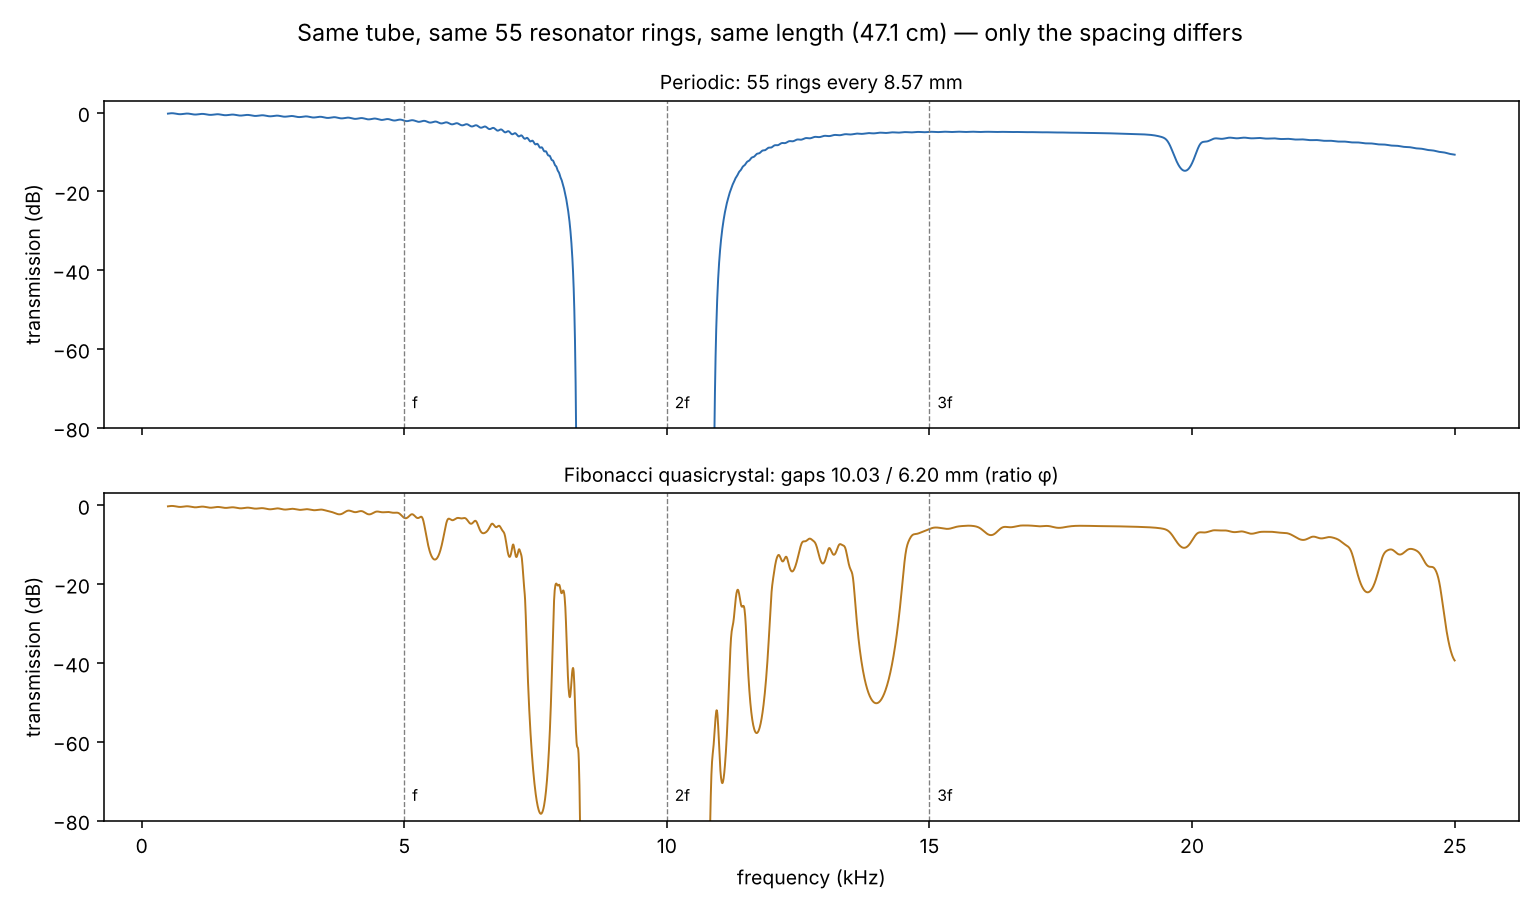
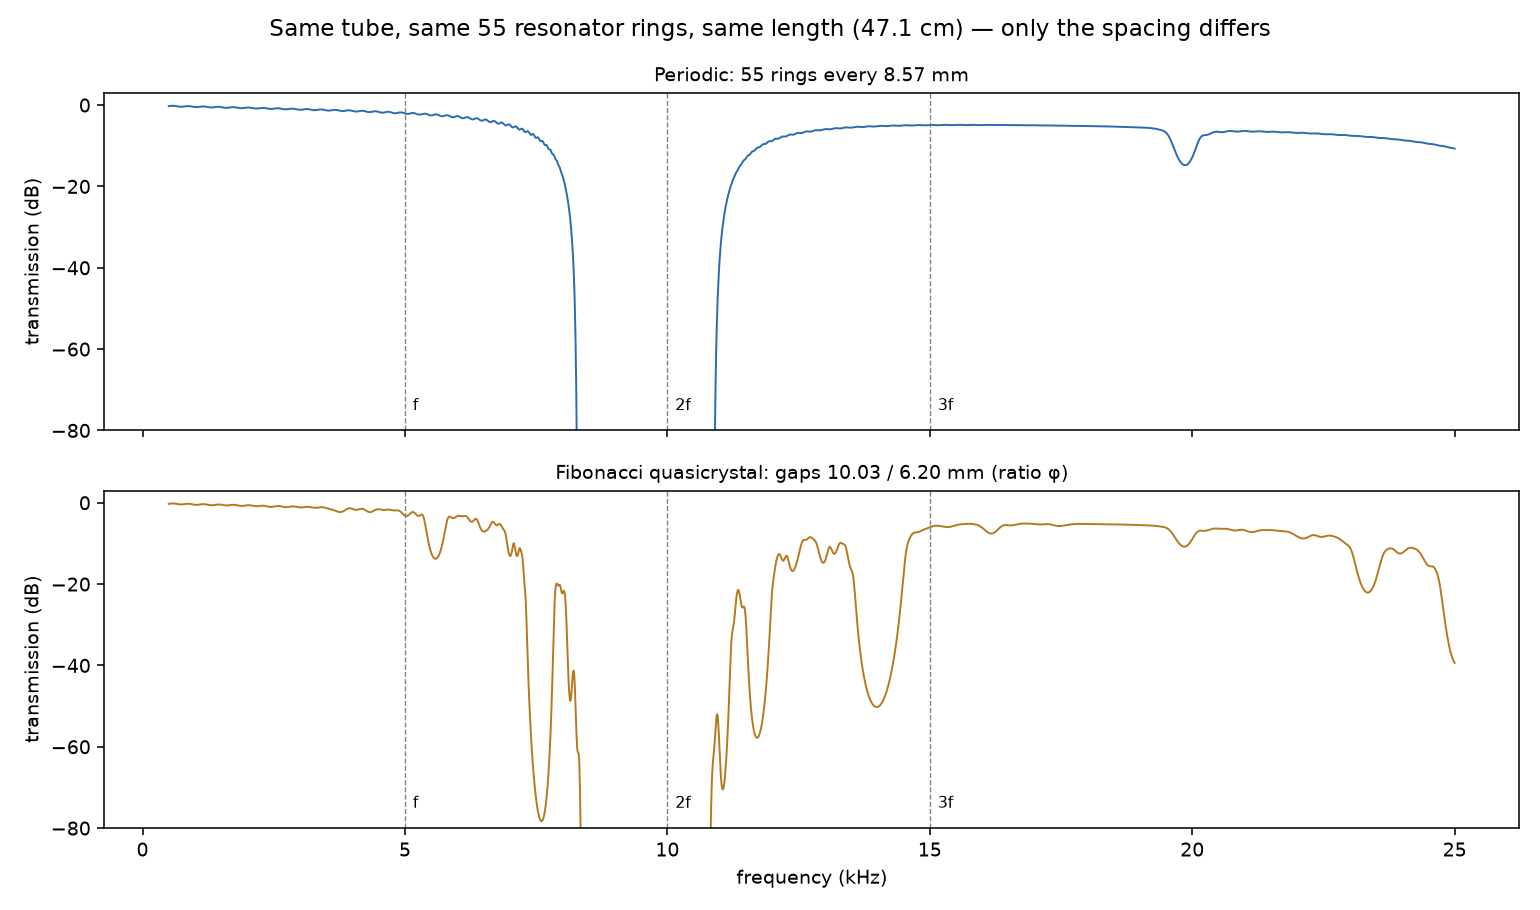
analog-gravity: honest gap counting, robust pulse counter, GPU sync cleanup
- fibonacci_tube.py: merge narrow splits, exclude sweep-edge bands, clip <-100 dB,
  threshold table; README drops unsupported 'five gaps / Cantor-like' claim
- kdv_test.py: prominence-based pulse count (was counting grid wiggles)
- remove per-step GPU->CPU syncs (no speedup: FP64-bound small FFTs; documented)
- regenerate results/ plots

diff --git a/analog-gravity/fibonacci_tube.py b/analog-gravity/fibonacci_tube.py
@@ -69,22 +69,46 @@ fig.tight_layout()
 fig.savefig("fibonacci_tube.png", dpi=140)
 
 
-def gaps_list(T, thr=-20):
+MERGE_KHZ = 0.2   # pass-peaks narrower than this don't split a gap
+THRESHOLDS = (-10, -20, -30)
+
+
+def gaps_list(T, thr=-20, merge_khz=MERGE_KHZ):
+    """Blocked bands (T < thr) in kHz, as (lo, hi, touches_sweep_edge).
+    Bands separated by a pass-peak narrower than merge_khz are merged."""
     blocked = T < thr; bands = []; i = 0
     while i < len(T):
         if blocked[i]:
             j = i
             while j < len(T) and blocked[j]:
                 j += 1
-            bands.append((freqs[i] / 1e3, freqs[j - 1] / 1e3)); i = j
+            lo, hi = freqs[i] / 1e3, freqs[j - 1] / 1e3
+            edge = i == 0 or j == len(T)
+            if bands and lo - bands[-1][1] < merge_khz:
+                plo, _, pedge = bands.pop()
+                lo, edge = plo, edge or pedge
+            bands.append((lo, hi, edge)); i = j
         else:
             i += 1
     return bands
 
+
+def fmt_dB(x):
+    return "< -100 dB" if x < -100 else f"{x:6.1f} dB"
+
+
+print(f"blocked = transmission below threshold; gaps split by pass-peaks < {MERGE_KHZ} kHz wide are merged;\n"
+      f"bands touching the {freqs[0]/1e3:g}-{freqs[-1]/1e3:g} kHz sweep edge are listed but not counted")
 for name, T in (("periodic", Tp), ("fibonacci", Tf)):
     b = gaps_list(T)
-    print(f"{name:9s}: {len(b)} blocked bands (< -20 dB): " +
-          ", ".join(f"{x:.1f}-{y:.1f}" for x, y in b) + " kHz")
+    inner = [(x, y) for x, y, e in b if not e]
+    edge = [(x, y) for x, y, e in b if e]
+    print(f"{name:9s}: {len(inner)} gaps (< -20 dB): " +
+          (", ".join(f"{x:.1f}-{y:.1f}" for x, y in inner) or "none") + " kHz" +
+          ("   [edge, not counted: " + ", ".join(f"{x:.1f}-{y:.1f}" for x, y in edge) + " kHz]" if edge else ""))
     for h in (5, 10, 15):
-        print(f"           at {h} kHz: {np.interp(h*1e3, freqs, T):6.1f} dB")
+        print(f"           at {h} kHz: {fmt_dB(np.interp(h*1e3, freqs, T))}")
+print("gap count vs threshold: " + "".join(f"{t:>8d} dB" for t in THRESHOLDS))
+for name, T in (("periodic", Tp), ("fibonacci", Tf)):
+    print(f"  {name:21s}" + "".join(f"{sum(not e for *_, e in gaps_list(T, t)):11d}" for t in THRESHOLDS))
 print("saved fibonacci_tube.png")

diff --git a/analog-gravity/kdv_test.py b/analog-gravity/kdv_test.py
@@ -16,6 +16,28 @@ print(f"escape wavenumber (exact): k* = {math.sqrt(s_)/3e-4:.0f}   "
       f"other AI's estimate sqrt(v^2-c^2)/xi = {math.sqrt(1.4**2-1)/3e-4:.0f}   "
       f"measured in H test at t=0.55: ~{150*12.0:.0f}")
 
+def count_pulses(u, min_prom):
+    """Peaks of a periodic signal whose topographic prominence exceeds min_prom.
+    Grid-scale wiggles on a shock front are local maxima with tiny prominence,
+    so they are not counted; a real pulse (e.g. a soliton) stands out by ~its amplitude."""
+    n = len(u); count = 0
+    for i in range(n):
+        if not (u[i] > u[i - 1] and u[i] >= u[(i + 1) % n]):
+            continue
+        bases = []
+        for step in (-1, 1):  # walk each way until a higher point; lowest point passed is the base
+            j, lo = i, u[i]
+            for _ in range(n - 1):
+                j = (j + step) % n
+                if u[j] > u[i]:
+                    break
+                lo = min(lo, u[j])
+            bases.append(lo)
+        if u[i] - max(bases) > min_prom:
+            count += 1
+    return count
+
+
 N, L, c = 1024, 1.0, 1.0
 x = torch.arange(N, device=DEV, dtype=DT_) / N
 beta, eps, m = 1.2, 0.014, 20; k = 2*math.pi*m
@@ -24,15 +46,14 @@ res = {}
 for xi in (0.0, 1e-3):
     s = PhysicalSolver(torch.zeros(N), L, c, xi=xi, beta=beta, nu=1e-5)
     psi = -(eps/k)*torch.cos(k*x); pi = -c*s.dx_(psi)
-    mon = lambda p, q: s.dx_(s.dx_(p)).abs().max().item()
+    mon = lambda p, q: s.dx_(s.dx_(p)).abs().max()
     psi, pi, fr, tm, hist = advance(s, psi, pi, 1.5*ts, record_every=50, monitor=mon)
     u = s.dx_(psi).cpu()
-    one = u[: N//m * 1]  # one original wavelength
-    peaks = int(((one > torch.roll(one, 1)) & (one > torch.roll(one, -1)) & (one > 0.3*eps)).sum())
+    peaks = count_pulses(u.tolist(), 0.3*eps) / m  # whole domain, per original wavelength
     g = [h[1] for h in hist]
     res[xi] = (u, hist, peaks)
     print(f"xi={xi:g}: max gradient {max(g)/(eps*k):.1f}x initial; "
-          f"pulses per original wavelength at t=1.5 t_s: {peaks}")
+          f"pulses per original wavelength at t=1.5 t_s: {peaks:g} (prominence > 0.3 u0)")
 
 fig, (a, b) = plt.subplots(1, 2, figsize=(12, 4.5))
 for xi, col, lab in ((0.0, "#c05621", "no dispersion: shock"), (1e-3, "#2b6cb0", "with dispersion ξ=1e-3")):

diff --git a/analog-gravity/sonic_horizon_physical.py b/analog-gravity/sonic_horizon_physical.py
@@ -66,15 +66,21 @@ class PhysicalSolver(AcousticMetricSolver):
 
 
 def advance(s, psi, pi, t, record_every=None, monitor=None):
+    """monitor(psi, pi) must return a 0-d tensor (no .item()): frames and monitor
+    values stay on the GPU during the loop and are transferred once at the end."""
     dt = s.stable_dt(); n = int(math.ceil(t / dt)); dt = t / n
     frames, times, mon = [], [], []
     for i in range(n + 1):
         if record_every and i % record_every == 0:
-            frames.append(psi.cpu().clone()); times.append(i * dt)
+            frames.append(psi.clone()); times.append(i * dt)
         if monitor:
-            mon.append((i * dt, monitor(psi, pi)))
+            mon.append(monitor(psi, pi))
         if i < n:
             psi, pi = s.step(psi, pi, dt)
+    if frames:
+        frames = list(torch.stack(frames).cpu())
+    if mon:
+        mon = list(zip((i * dt for i in range(n + 1)), torch.stack(mon).cpu().tolist()))
     return psi, pi, frames, times, mon
 
 
@@ -124,7 +130,7 @@ def main():
     g0 = eps * k
     ts_theory = 1.0 / (beta * eps * k * c)
     # inviscid Burgers: max gradient = g0 / (1 - t/t_s); reaches 5*g0 at t = 0.8 t_s
-    mon = lambda p, q: s.dx_(s.dx_(p)).abs().max().item()
+    mon = lambda p, q: s.dx_(s.dx_(p)).abs().max()
     psi, pi, _, _, hist = advance(s, psi, pi, 0.85 * ts_theory, monitor=mon)
     t5 = next((t for t, g in hist if g > 5 * g0), float("nan"))
     results.append(check("steepening time (gradient 5x)", abs(t5 / (0.8 * ts_theory) - 1) < 0.05,

diff --git a/analog-gravity/sonic_horizon.py b/analog-gravity/sonic_horizon.py
@@ -121,10 +121,12 @@ def run(solver, psi, pi, t_end, record_every=None):
     frames, times = [], []
     for i in range(n + 1):
         if record_every and i % record_every == 0:
-            frames.append(psi.detach().cpu().clone())
+            frames.append(psi.detach().clone())  # stays on GPU: no sync in the loop
             times.append(i * dt)
         if i < n:
             psi, pi = solver.step(psi, pi, dt)
+    if frames:  # one GPU->CPU transfer at the end
+        frames = list(torch.stack(frames).cpu())
     return psi, pi, frames, times
 
 

diff --git a/analog-gravity/README.md b/analog-gravity/README.md
@@ -10,6 +10,12 @@ answer before its results are trusted.** Run any script and it prints PASS/FAIL.
 
 Runs on CPU; uses CUDA automatically if PyTorch sees a GPU.
 
+> Performance note: at these grid sizes (N ≤ 4096, float64) the GPU is no faster
+> than the CPU. ~87% of GPU time is 4096-point FP64 cuFFT (~38 µs each): one small
+> FFT can't fill the GPU, and consumer GPUs run FP64 at 1/64 rate. Removing
+> GPU→CPU syncs from the time loops didn't change run times (`sonic_horizon.py`
+> ~100 s either way, RTX 5090).
+
 ```bash
 pip install torch numpy matplotlib
 python sonic_horizon.py            # phase 1: ideal acoustic metric
@@ -61,7 +67,9 @@ that escape — essentially 100% through by t = 0.9. Exact escape wavenumber
 At 160 dB in air (acoustic Mach ≈ 0.014) a 40 kHz wave shocks after ~9.5
 wavelengths ≈ **8 cm** — the practical ceiling on acoustic levitation. With
 strong model dispersion (ξ = 10⁻³) the shock never forms (gradient plateaus at
-1.4×), but no soliton train appears at that setting either.
+1.4×), but no soliton train appears at that setting either (1 pulse per original
+wavelength in both runs, counting only peaks with prominence > 0.3 u₀ so
+grid-scale wiggles on the shock front aren't mistaken for pulses).
 Real air's dispersion length (~70 nm) is far too small to help at 40 kHz.
 
 ![](results/shock_vs_dispersion.png)
@@ -83,10 +91,23 @@ at 40, 10, 5 and 2 kHz and checks the shock actually forms in the plain tube
 ## 5. Golden-ratio quasicrystal — `fibonacci_tube.py`
 
 Same 55 rings, same length; only the spacing changes. Periodic spacing gives
-one clean band gap (8–11 kHz). Fibonacci spacing (gap ratio φ, substitution
-L→LS, S→L) shatters it into **five** gaps with self-similar sub-structure — the
-Cantor-like spectrum of a quasicrystal. Open question: does it suppress shock
-formation differently from the periodic tube?
+one clean band gap (8.1–11.2 kHz at −20 dB). Fibonacci spacing (gap ratio φ,
+substitution L→LS, S→L) widens the main gap to 7.3–12.0 kHz and adds side gaps,
+but how many depends on where you draw the line. Counting gaps (blocked bands
+split only by pass-peaks wider than 0.2 kHz, ignoring bands that touch the
+0.5–25 kHz sweep edge):
+
+| Threshold | Periodic | Fibonacci |
+|---|---|---|
+| −10 dB | 2 | 4 |
+| −20 dB | 1 | 3 (7.3–12.0, 13.6–14.5, 23.2–23.5 kHz) |
+| −30 dB | 1 | 4 (main gap splits into 7.3–7.8, 8.1–11.3, 11.5–12.0; plus 13.6–14.4) |
+
+The robust features at every threshold are the widened main gap and the
+13.6–14.5 kHz side gap; the rest come and go with the threshold. Whether this
+55-ring tube shows the self-similar, Cantor-like gap structure of a true
+quasicrystal needs a finer analysis (more rings, gap widths vs. generation).
+Open question: does it suppress shock formation differently from the periodic tube?
 
 ![](results/fibonacci_tube.png)
 
